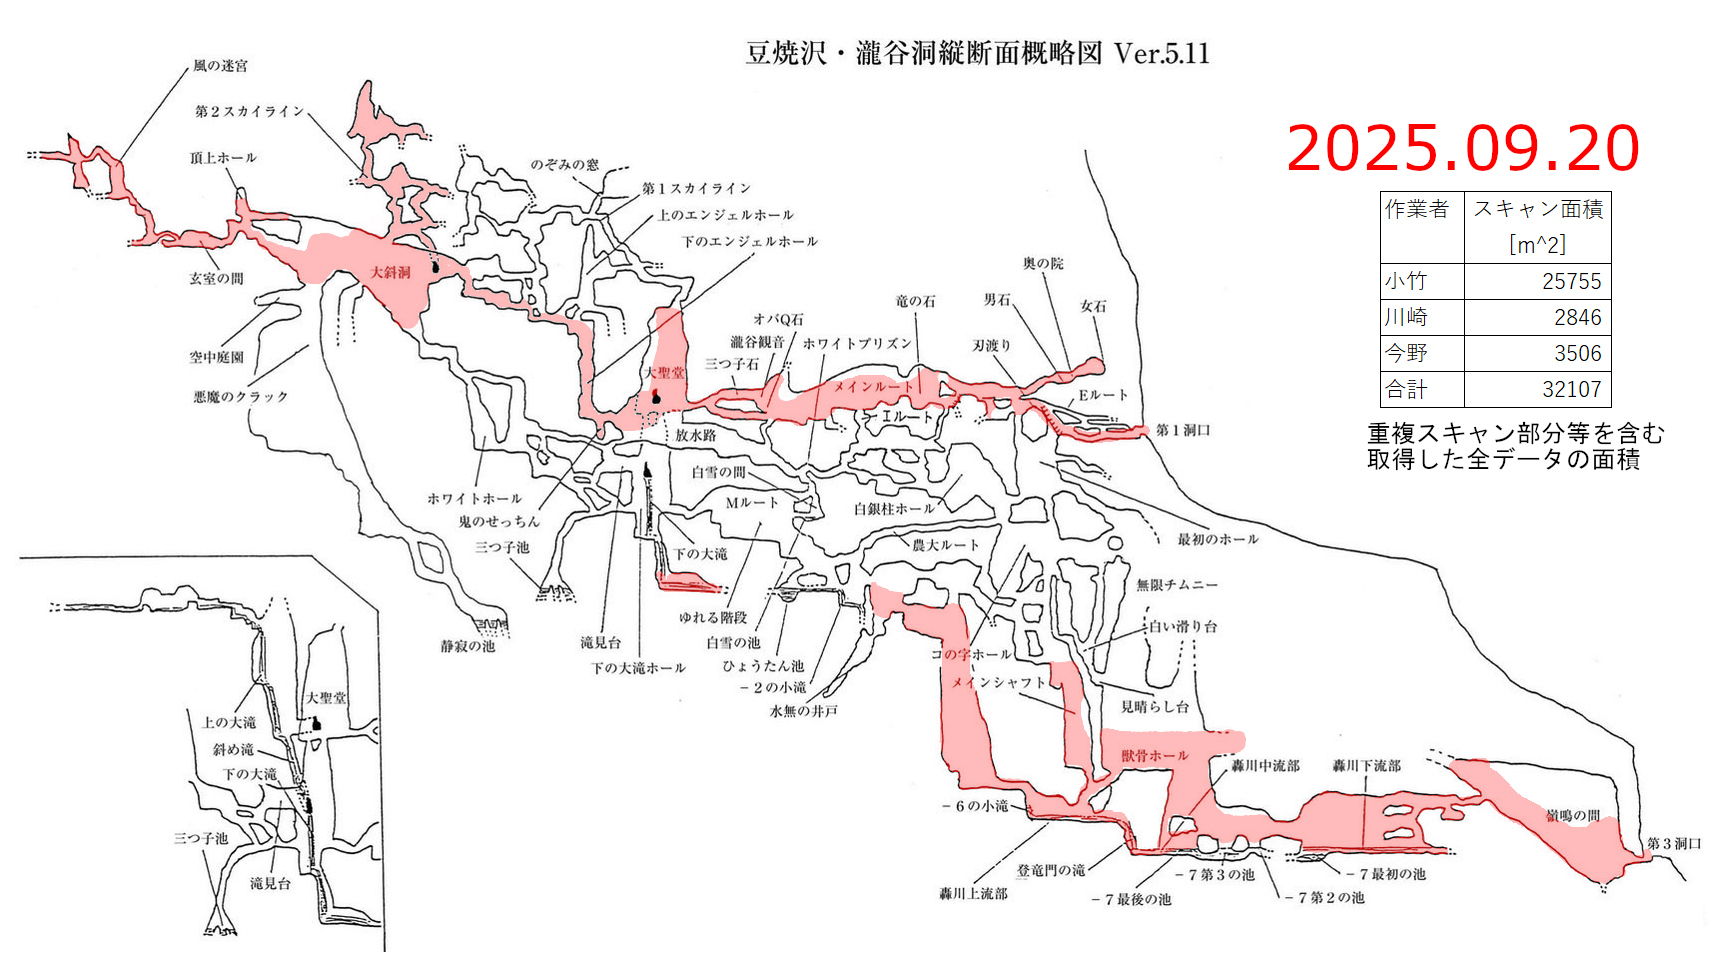
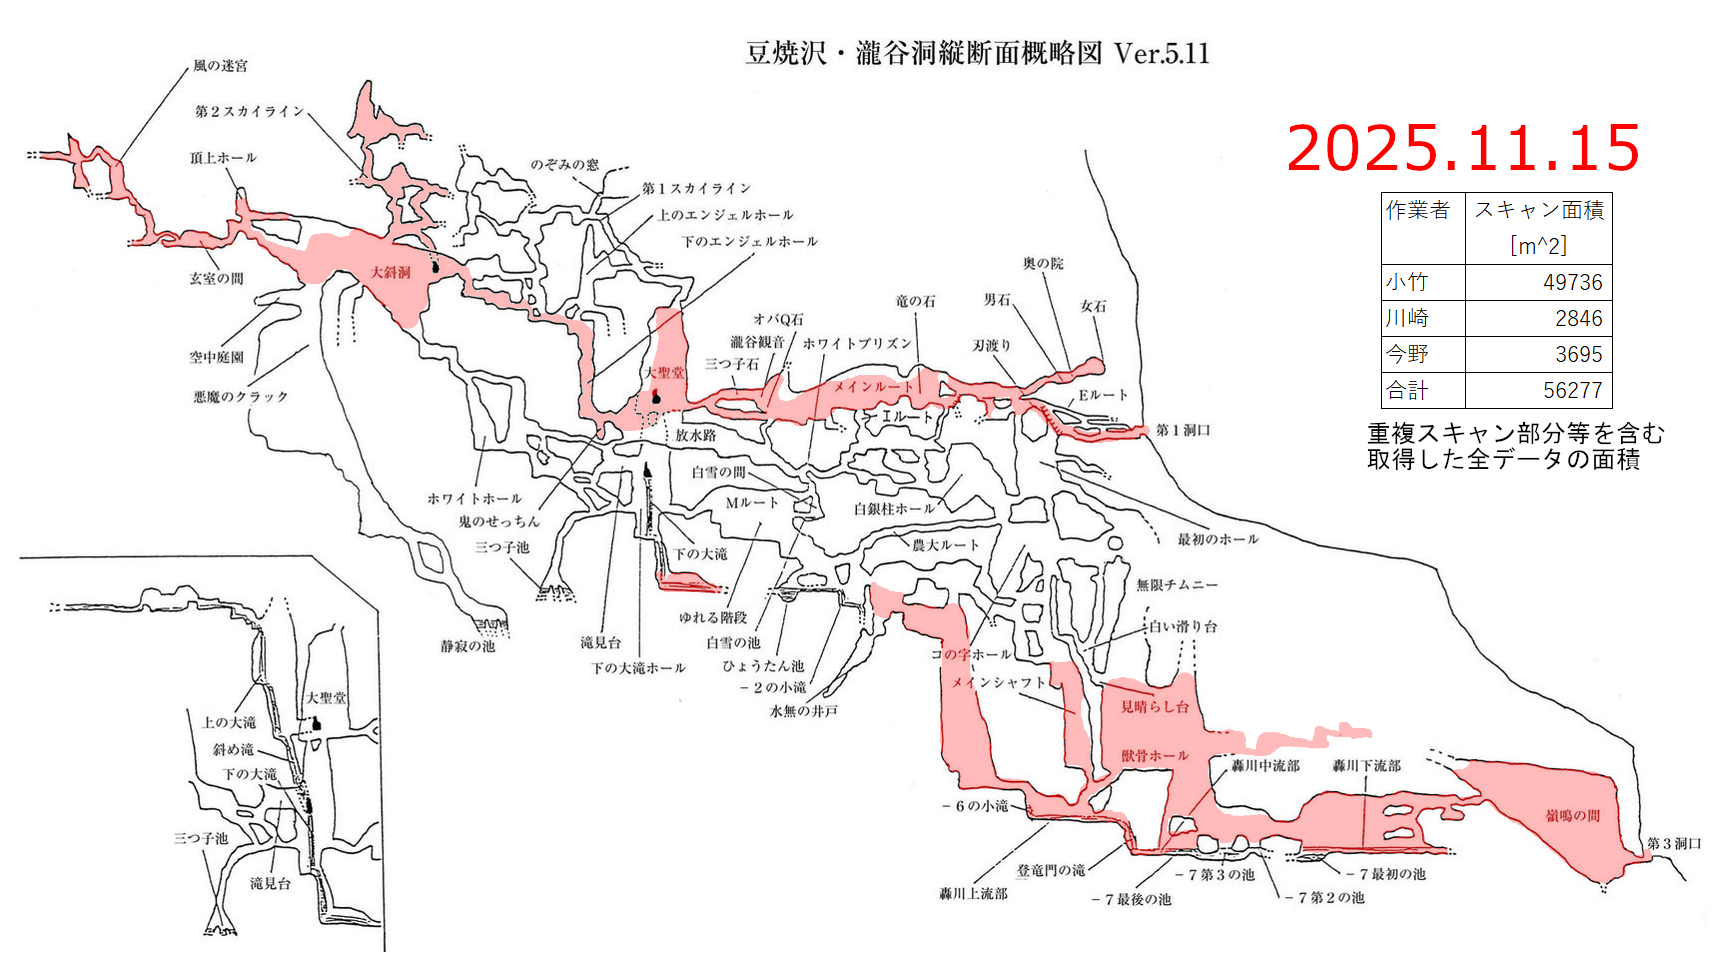
update PartialScan

diff --git a/docs/PartialScan.html b/docs/PartialScan.html
@@ -19,15 +19,24 @@
     <br><p>
 
     <h2>瀧谷洞スキャン</h2>
-    <ul>
-        <li><a href="https://cavemapper.github.io/CaveViewer/Roukokudo/">瀧谷洞</a></li>
-        <li><a href="https://cavemapper.github.io/CaveViewer/Roukokudo_Shita_no_Ototaki_Bottom/">下の大滝の下部</a></li
-    </ul>
     <p>
-　　瀧谷洞スキャン完了エリアの図
-    <img src="瀧谷洞スキャン状況.png" alt="瀧谷洞スキャン状況">
-
-    <p><br></p>
+        モデルが大きくなってきたので、最新3Dモデル状況はキャプチャ画像で載せます。<br>
+        webで見れる3Dはページ下部に残しますが、更新は新スキャンが沢山たまった時だけにします。
+    <p><br>
+    <p>
+        瀧谷洞スキャン完了エリアの図　↓<br>
+        <img src="瀧谷洞スキャン状況.png" alt="瀧谷洞スキャン状況">
+    <p><br>
+    <p>
+        瀧谷洞スキャン3D　↓<br>
+        <img src="瀧谷洞3Dキャプチャ.png" alt="瀧谷洞3Dモデル状況">
+    <p><br>
+        webで見れる3D　↓<br>
+        <ul>
+            <li><a href="https://cavemapper.github.io/CaveViewer/Roukokudo/">瀧谷洞（2025.9.20時点）</a></li>
+            <li><a href="https://cavemapper.github.io/CaveViewer/Roukokudo_Shita_no_Ototaki_Bottom/">下の大滝の下部</a></li>
+        </ul>
+<p><br></p>
     <p><br></p>
     <a href="https://github.com/CaveMapper/CaveMapper">TOPに戻る</a>
 </body>
